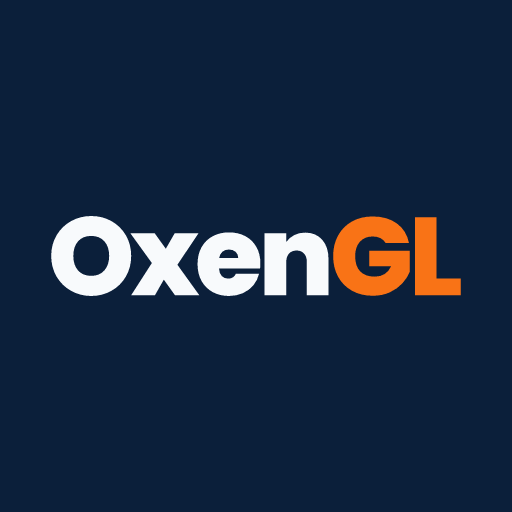
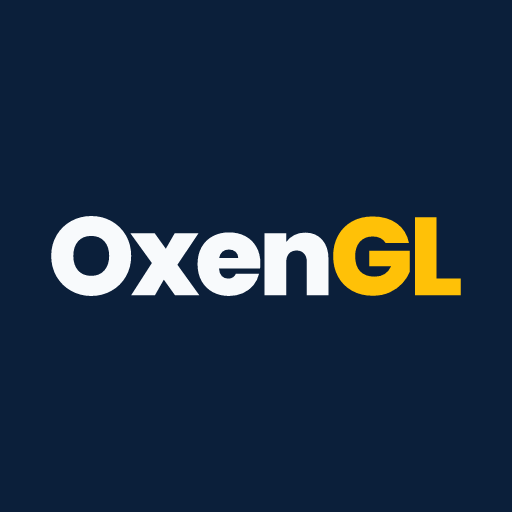
branding: OxenGL wordmark in Super Admin + workspace shells; yellow (#FFC107) GL accent
- Favicon set + wordmark regenerated with true-yellow GL on the navy tile
- Super Admin console sidebar: gradient crown tile -> BrandWordmark + MASTER badge
- Workspace sidebar header: BrandWordmark (expanded) / BrandMark (collapsed); org card keeps the tenant's own logo
- Workspace navbar platform context: BrandWordmark; PlatformLogo default now renders the GL BrandMark

Changed region(s): [[0.625, 0.4062, 0.9062, 0.5938]]

diff --git a/frontend/src/components/Sidebar.tsx b/frontend/src/components/Sidebar.tsx
@@ -38,6 +38,7 @@ import {
 } from 'lucide-react';
 import { UserAvatar } from './UserAvatar';
 import { TenantAvatar } from './TenantAvatar';
+import { BrandMark, BrandWordmark } from '../views/landing/BrandWordmark';
 import { HoverIcon } from './common/HoverIcon';
 
 export type ActiveTab =
@@ -736,37 +737,17 @@ export const Sidebar: React.FC<SidebarProps> = ({
               }`}
             >
               {!isCollapsed ? (
-                <div className="flex items-center gap-2 overflow-hidden">
-                  <TenantAvatar
-                    tenant={currentCompany}
-                    name={sidebarCompanyName}
-                    logoUrl={sidebarLogoUrl}
-                    primaryColor={sidebarPrimaryColor}
-                    size="xs"
-                    showGlow={true}
-                    title={sidebarCompanyName}
-                  />
-                  <span className="text-[10px] font-black tracking-[0.16em] text-slate-400 uppercase truncate">
-                    {isDriverMode
-                      ? isAr
-                        ? 'القائمة الميدانية'
-                        : 'Field Mode'
-                      : isAr
-                      ? 'بوابة الملاحة الرئيسية'
-                      : 'Navigation'}
-                  </span>
+                <div id="sidebar-brand-wordmark" className="flex items-center gap-2 overflow-hidden" title="OxenGL">
+                  <BrandWordmark height={16} />
+                  {isDriverMode && (
+                    <span className="text-[10px] font-black tracking-[0.16em] text-slate-400 uppercase truncate">
+                      {isAr ? 'القائمة الميدانية' : 'Field Mode'}
+                    </span>
+                  )}
                 </div>
               ) : (
-                <div className="flex justify-center pb-1">
-                  <TenantAvatar
-                    tenant={currentCompany}
-                    name={sidebarCompanyName}
-                    logoUrl={sidebarLogoUrl}
-                    primaryColor={sidebarPrimaryColor}
-                    size="xs"
-                    showGlow={true}
-                    title={sidebarCompanyName}
-                  />
+                <div id="sidebar-brand-mark" className="flex justify-center pb-1" title="OxenGL">
+                  <BrandMark size={28} />
                 </div>
               )}
 

diff --git a/frontend/src/views/SuperAdminCockpitView.tsx b/frontend/src/views/SuperAdminCockpitView.tsx
@@ -5,6 +5,7 @@ import {
   TrendingUp, BarChart3, FileCheck2
 } from 'lucide-react';
 import { useApp } from '../context/AppContext';
+import { BrandWordmark } from './landing/BrandWordmark';
 import { useOutsideClick } from '../hooks/useOutsideClick';
 import { Company } from '../types';
 import { LicenseProvisionerView, PanoramicCockpit, PlatformSettingsView, PricingPlansView, SystemAuditView, TenantsRegistryView } from '../components/platform/PlatformModules';
@@ -96,10 +97,9 @@ export const SuperAdminCockpitView: React.FC<SuperAdminCockpitViewProps> = ({ on
         <div className="space-y-5">
           <div className="flex items-start justify-between gap-3 border-b border-blue-900/50 px-1 pb-4 pt-1">
             <div className="flex items-center gap-3">
-              <div className="flex h-12 w-12 shrink-0 items-center justify-center rounded-2xl bg-gradient-to-tr from-blue-600 via-indigo-600 to-cyan-500 shadow-lg shadow-blue-500/25"><Crown className="h-6 w-6 text-amber-300" /></div>
               <div>
-                <div className="flex items-center gap-1.5"><span className="font-mono text-base font-black tracking-tight text-white">OxenGL</span><span className="rounded-md border border-blue-400/30 bg-blue-500/20 px-2 py-0.5 text-[10px] font-black text-blue-300">MASTER</span></div>
-                <p className="text-[11px] font-medium text-slate-400">Central Platform Owner Console</p>
+                <div className="flex items-center gap-2"><BrandWordmark height={20} /><span className="rounded-md border border-amber-400/30 bg-amber-500/10 px-2 py-0.5 text-[10px] font-black text-amber-300">MASTER</span></div>
+                <p className="mt-1.5 text-[11px] font-medium text-slate-400">Central Platform Owner Console</p>
               </div>
             </div>
             <button onClick={() => setSidebarOpen(false)} className="text-slate-400 lg:hidden cursor-pointer hover:text-white"><X className="h-4 w-4" /></button>

diff --git a/frontend/src/views/landing/BrandWordmark.tsx b/frontend/src/views/landing/BrandWordmark.tsx
@@ -6,6 +6,9 @@ const WORDMARK_RATIO = 371 / 73;
 /** OxenGL luxury navy: brand tile behind the wordmark and the favicon set. */
 export const BRAND_NAVY = '#0B1F3A';
 
+/** OxenGL accent yellow used for the "GL" letters (wordmark + favicon monogram). */
+export const BRAND_YELLOW = '#FFC107';
+
 interface BrandWordmarkProps {
   /** Rendered height of the lettering in px; width follows the wordmark's aspect ratio. */
   height?: number;
@@ -13,7 +16,7 @@ interface BrandWordmarkProps {
 }
 
 /**
- * Official OxenGL wordmark: "Oxen" in white, "GL" in brand orange (#F97316),
+ * Official OxenGL wordmark: "Oxen" in white, "GL" in brand yellow (#FFC107),
  * set on the navy brand tile. Vector asset with outlined text, so it renders
  * identically without the font.
  */
@@ -40,6 +43,22 @@ export const BrandWordmark: React.FC<BrandWordmarkProps> = ({ height = 26, class
       draggable={false}
     />
   </span>
+);
+
+/**
+ * Compact square OxenGL mark (yellow "GL" on the navy tile), identical to the favicon.
+ * For collapsed rails and other spots too narrow for the full wordmark.
+ */
+export const BrandMark: React.FC<{ size?: number; className?: string }> = ({ size = 28, className = '' }) => (
+  <img
+    src="/favicon.svg"
+    alt="OxenGL"
+    width={size}
+    height={size}
+    className={`brand-mark ${className}`.trim()}
+    style={{ borderRadius: Math.round(size * 0.22), boxShadow: '0 6px 18px -8px rgba(11, 31, 58, 0.9)' }}
+    draggable={false}
+  />
 );
 
 export default BrandWordmark;

diff --git a/frontend/src/components/PlatformLogo.tsx b/frontend/src/components/PlatformLogo.tsx
@@ -1,5 +1,5 @@
 import React, { useState } from 'react';
-import { BrandLogo } from './BrandLogo';
+import { BrandMark } from '../views/landing/BrandWordmark';
 import { useApp } from '../context/AppContext';
 
 export interface PlatformLogoProps {
@@ -45,7 +45,8 @@ export const PlatformLogo: React.FC<PlatformLogoProps> = ({
 
   const px = sizePxMap[size] || 32;
 
-  if (platformLogoUrl && !imgError) {
+  // The legacy default (/oxengl-logo.svg) is superseded by the OxenGL GL brand mark.
+  if (platformLogoUrl && platformLogoUrl !== '/oxengl-logo.svg' && !imgError) {
     return (
       <div
         style={{ width: px, height: px }}
@@ -64,7 +65,7 @@ export const PlatformLogo: React.FC<PlatformLogoProps> = ({
 
   return (
     <div className={`flex items-center justify-center shrink-0 ${className}`}>
-      <BrandLogo size={size} showText={false} forcePlatformLogo={true} />
+      <BrandMark size={px} />
     </div>
   );
 };

diff --git a/frontend/src/components/Navbar.tsx b/frontend/src/components/Navbar.tsx
@@ -40,7 +40,7 @@ import {
 import { UserRole } from '../types';
 import { TENANT_PALETTES } from '../theme/designTokens';
 import { BrandLogo } from './BrandLogo';
-import { PlatformLogo } from './PlatformLogo';
+import { BrandWordmark } from '../views/landing/BrandWordmark';
 import { UserAvatar } from './UserAvatar';
 import { TenantAvatar } from './TenantAvatar';
 import { HoverIcon } from './common/HoverIcon';
@@ -442,8 +442,8 @@ export const Navbar: React.FC<NavbarProps> = ({
             />
           ) : (
             /* Global Platform Master Logo strictly displayed on apex domain / unauthenticated / master portal routes */
-            <div className="flex h-7 w-7 items-center justify-center shrink-0">
-              <PlatformLogo size="sm" />
+            <div className="flex items-center shrink-0">
+              <BrandWordmark height={18} />
             </div>
           )}
 

diff --git a/frontend/src/views/landing/landing.css b/frontend/src/views/landing/landing.css
@@ -1176,7 +1176,7 @@
       gap: 10px;
     }
 
-    /* OxenGL wordmark (white "Oxen" + orange "GL"), see BrandWordmark.tsx */
+    /* OxenGL wordmark (white "Oxen" + yellow "GL"), see BrandWordmark.tsx */
     .landing-page-root .brand-wordmark {
       display: block;
       width: auto;
